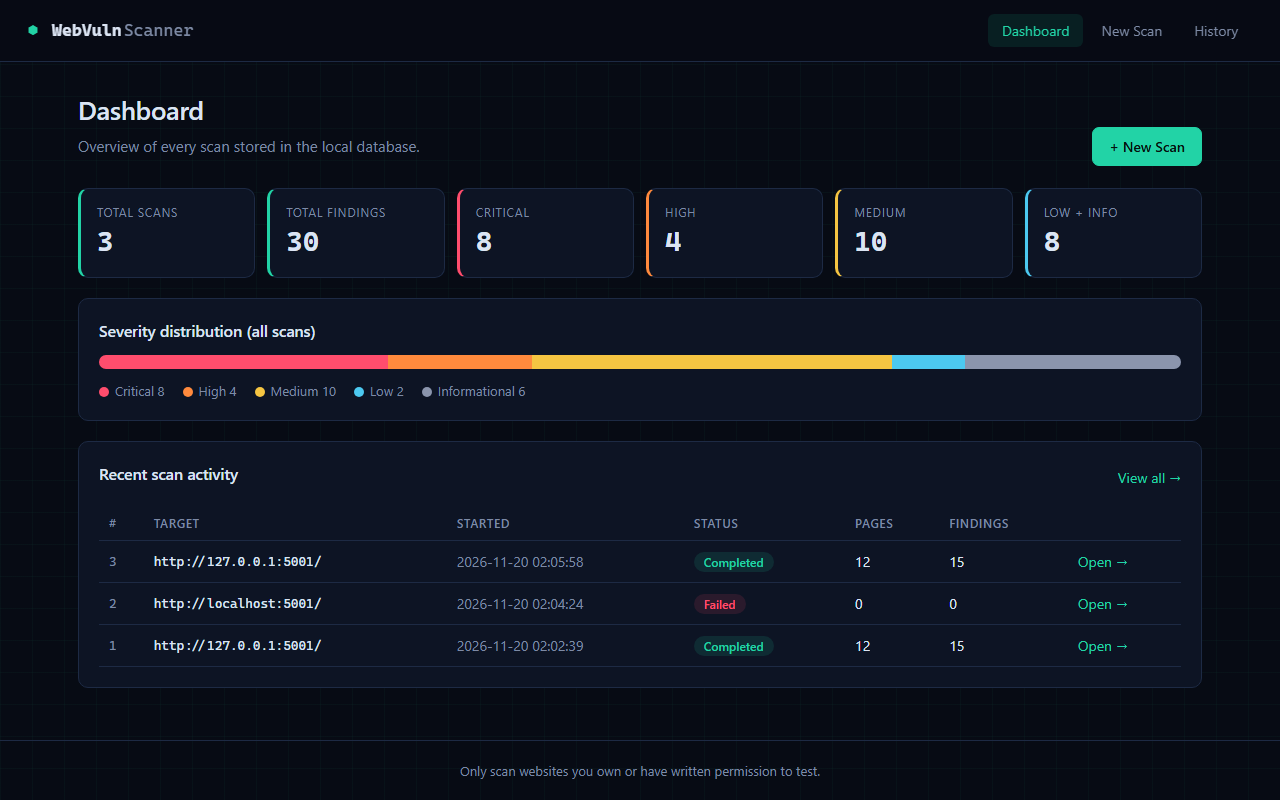
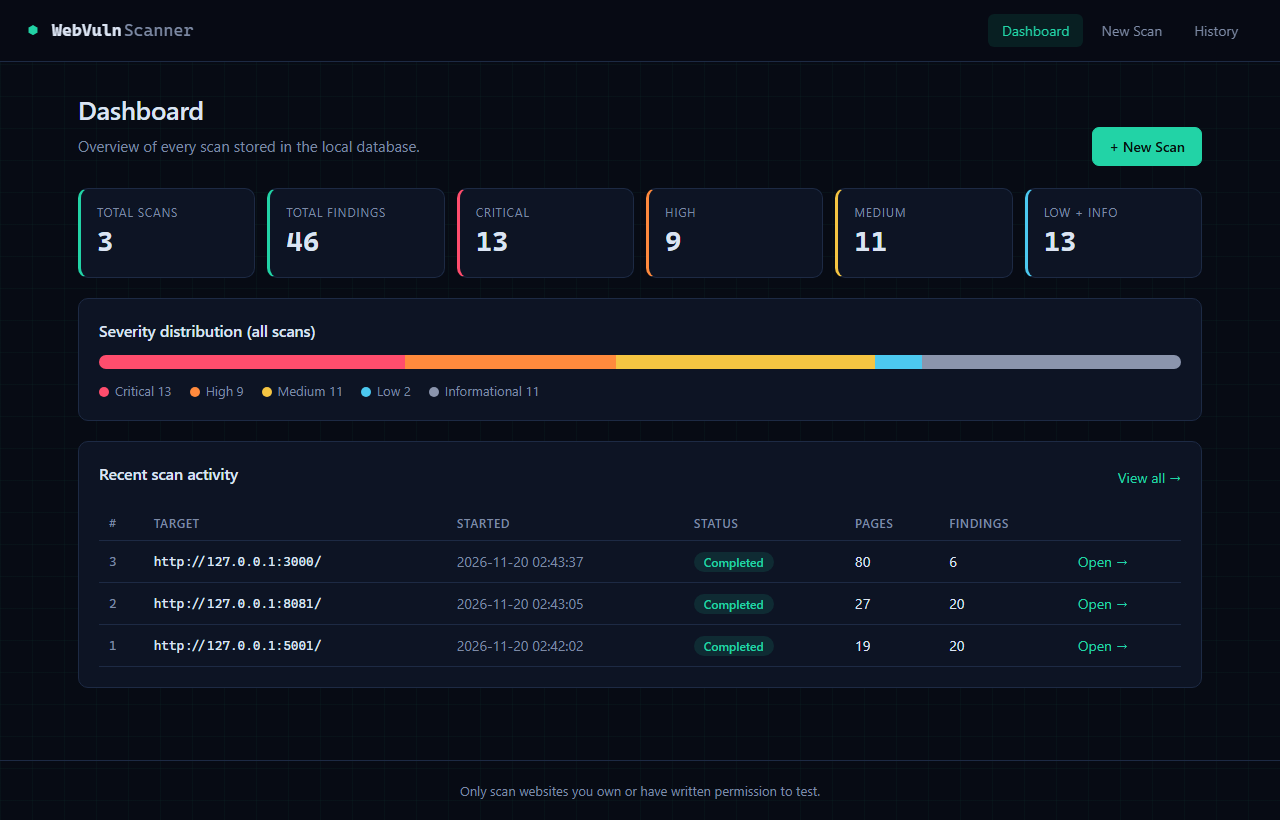
Updated README with DVWA and Juice Shop results and new features

diff --git a/README.md b/README.md
@@ -3,14 +3,20 @@
 A beginner-friendly web application vulnerability scanner written in Python and Flask.
 
 You give it the URL of a website you are allowed to test. It crawls the site, finds the pages, forms and
-URL parameters, and then checks them for common security problems: reflected XSS, SQL injection, open
-redirects, missing security headers and exposed files. Everything is saved in a SQLite database, shown on a
-dark web dashboard, and can be exported as an HTML or PDF report.
+URL parameters (also API addresses hidden in JavaScript files), and then checks them for common security
+problems: reflected and stored XSS, SQL injection (error, boolean and time-based), open redirects, missing
+security headers and exposed files. It can log in first to test pages behind a login. Everything is saved
+in a SQLite database, shown on a dark web dashboard, and can be exported as an HTML or PDF report.
+
+It has been tested against its own vulnerable test lab, **DVWA** and **OWASP Juice Shop**
+(see [Results on DVWA and Juice Shop](#results-on-dvwa-and-juice-shop)).
 
 I built this project to learn how scanners like OWASP ZAP work on the inside. It is meant for learning
 and for testing your own apps, not for replacing professional tools.
 
-![Dashboard](docs/screenshots/dashboard.png)
+![Demo: starting a scan with login, live progress, results and the HTML report](docs/demo.gif)
+
+*Demo: a scan of the local test lab with login and stored XSS turned on (about 30 seconds of real time).*
 
 ---
 
@@ -20,8 +26,12 @@ and for testing your own apps, not for replacing professional tools.
 |---|---|
 | **Target management** | Validates the URL (http/https only), only allows hosts on an allowlist, blocks private/internal IPs that are not allowlisted, always blocks cloud metadata IPs, and limits timeouts and requests |
 | **Web crawler** | Finds pages by following links (same site only), reads forms and input fields, collects URL parameters, skips duplicates, stops at a max depth and max page count |
-| **XSS detection** | Sends a harmless, random marker and checks if it turns into a real HTML tag or attribute. Escaped output is *not* reported |
-| **SQL injection detection** | Error-based (looks for database error messages, then confirms) and boolean-based (compares "always true" and "always false" pages). Never sends destructive SQL |
+| **JavaScript endpoint discovery** | Reads the site's `.js` files as text and picks out API paths like `/rest/products/search?q=` (also inside template strings), so single-page apps such as Juice Shop can be tested |
+| **Login support** | Logs in through the site's login form (keeps hidden CSRF tokens) or uses a pasted session cookie. Starts crawling from the page after login. The password is never saved |
+| **Excluded paths** | URLs containing words like `logout`, `reset` or `delete` are never requested, so the scan can't log itself out or wipe data |
+| **Reflected XSS** | Sends a harmless, random marker and checks if it turns into a real HTML tag or attribute. Escaped output is *not* reported |
+| **Stored XSS** (opt-in) | Submits a unique marker into every form field, then reloads the pages and checks if a marker now shows up as a real tag |
+| **SQL injection detection** | Error-based (database error messages, then confirms), boolean-based ("always true" vs "always false" pages) and time-based blind (`SLEEP`/`pg_sleep`, confirmed twice). Never sends destructive SQL |
 | **Open redirect detection** | Tests redirect-like parameters with `https://example.com/...` and reads the `Location` header without following it |
 | **Security header analyzer** | Checks CSP, X-Frame-Options, HSTS, X-Content-Type-Options, Referrer-Policy (missing **and** weak values) and version leaks in `Server` / `X-Powered-By` |
 | **Directory discovery** | Checks about 30 common paths (`/.env`, `/.git/HEAD`, `/admin/`, `/backup/` ...), records every status code, detects "soft 404" pages and hides secrets in the evidence |
@@ -58,15 +68,17 @@ flowchart TD
     Engine --> Crawler[crawler/crawler.py<br/>pages, forms, parameters]
     Crawler --> UP[url_parser.py]
     Crawler --> FP[form_parser.py]
+    Engine --> Auth[auth.py<br/>optional login / cookie]
     Engine --> Mods{Vulnerability modules}
     Mods --> XSS[xss_scanner.py]
+    Mods --> SXSS[stored_xss_scanner.py]
     Mods --> SQLI[sqli_scanner.py]
     Mods --> RED[redirect_scanner.py]
     Mods --> HDR[header_analyzer.py]
     Mods --> DIR[directory_scanner.py]
-    Crawler & XSS & SQLI & RED & HDR & DIR -->|every HTTP request| RH[request_handler.py<br/>scope check, timeout, limit, delay]
+    Crawler & Auth & XSS & SXSS & SQLI & RED & HDR & DIR -->|every HTTP request| RH[request_handler.py<br/>scope, exclusions, timeout, limit, delay]
     RH -->|HTTP| Target[(Target website)]
-    XSS & SQLI & RED & HDR & DIR -->|Finding objects| FC[findings_collector.py]
+    XSS & SXSS & SQLI & RED & HDR & DIR -->|Finding objects| FC[findings_collector.py]
     FC --> RA[risk_assessment.py<br/>severity formula]
     Engine -->|save results + progress| DB[(SQLite<br/>database/db.py)]
     Routes -->|read results| DB
@@ -98,17 +110,19 @@ WebVuln Scanner/
 │   ├── target_manager.py       # URL validation, allowlist, private IP blocking, scope check
 │   ├── crawler/
 │   │   ├── crawler.py          # breadth-first crawler, builds injection points
-│   │   ├── url_parser.py       # normalize URLs, extract links, read parameters
+│   │   ├── url_parser.py       # normalize URLs, extract links/JS endpoints, read parameters
 │   │   └── form_parser.py      # find forms and their fields
 │   ├── vulnerabilities/
 │   │   ├── xss_scanner.py
-│   │   ├── sqli_scanner.py
+│   │   ├── stored_xss_scanner.py
+│   │   ├── sqli_scanner.py     # error, boolean and time-based
 │   │   ├── redirect_scanner.py
 │   │   ├── header_analyzer.py
 │   │   └── directory_scanner.py
 │   ├── engine/
 │   │   ├── scan_engine.py      # runs all steps, saves progress and results
-│   │   └── request_handler.py  # the only place that sends HTTP requests
+│   │   ├── auth.py             # form login and session cookies
+│   │   └── request_handler.py  # the only place that sends HTTP requests (scope, limits, exclusions)
 │   └── analysis/
 │       ├── findings_collector.py
 │       └── risk_assessment.py
@@ -124,7 +138,7 @@ WebVuln Scanner/
 ├── static/css, static/js       # dark theme + progress/filter scripts
 ├── test_lab/vulnerable_app.py  # deliberately vulnerable site for testing (127.0.0.1 only)
 ├── tests/                      # pytest test suite
-└── docs/screenshots/
+└── docs/                       # demo.gif and screenshots
 ```
 
 **Changes from the first plan:** I added `test_lab/` (a local vulnerable site, so testing never needs the
@@ -145,6 +159,11 @@ BeautifulSoup parses the response:
 
 A second payload, `marker" markera="1`, checks if a quote can break out of an HTML attribute.
 
+**Stored XSS (opt-in).** Each form field gets its own marker, for example `wvsab12cd"'><wvsab12cdx>`.
+After all forms are sent, the crawled pages are loaded again *without* any test input. If a marker now
+appears as a real tag, the site saved it and shows it to every visitor. This module is off by default,
+because it really saves data (like a guestbook entry) on the site.
+
 **SQL injection.**
 - *Error-based:* add `'` to the value. If a database error appears (MySQL, PostgreSQL, SQLite, MSSQL and
   Oracle patterns) that wasn't on the normal page, confirm it: `''` (an escaped quote) should make the error
@@ -152,6 +171,10 @@ A second payload, `marker" markera="1`, checks if a quote can break out of an HT
 - *Boolean-based:* compare the normal page with `1 AND 1=1` (always true) and `1 AND 1=2` (always false).
   True looks normal and false looks different: **Medium**. The page is loaded twice first, so pages that
   change on their own are skipped.
+- *Time-based blind:* used when the page looks the same whatever happens (blind SQLi). The scanner sends
+  `1 AND SLEEP(3)` (MySQL) or `1 AND 1=(SELECT 1 FROM PG_SLEEP(3))` (PostgreSQL). It reports only if the
+  page is about 3 s slower, the same payload with `SLEEP(0)` is fast again, and a second slow try is slow
+  too. That last check rules out a slow network.
 - Only read-only test inputs are used. No `DROP`, `DELETE`, `UPDATE`, `INSERT` or stacked queries.
 
 **Open redirect.** Only parameters with redirect-style names (`url`, `next`, `redirect`, `goto` ...) or
@@ -227,16 +250,44 @@ python app.py
 If an allowlisted name points to a private IP (like `10.0.0.5`), you must allowlist that IP too. Cloud
 metadata addresses (`169.254.169.254`) are always blocked.
 
-**Testing with OWASP Juice Shop or DVWA.** If you have Docker:
+**Scanning a site behind a login.** Open the *Login (optional)* box on the New Scan page and enter the
+login page URL plus a **test** username and password, or paste a session cookie copied from your browser.
+For the test lab, use `http://127.0.0.1:5001/account/login` with `tester` / `lab-password`.
+
+---
+
+## Results on DVWA and Juice Shop
+
+Both run locally in Docker. They only listen on `127.0.0.1`, so nobody else on your network can reach them.
 
 ```powershell
-docker run --rm -p 127.0.0.1:3000:3000 bkimminich/juice-shop
-docker run --rm -p 127.0.0.1:8080:80 vulnerables/web-dvwa
+docker run -d --name wvs-juice -p 127.0.0.1:3000:3000 bkimminich/juice-shop
+docker run -d --name wvs-dvwa -p 127.0.0.1:8081:80 vulnerables/web-dvwa
 ```
 
-Then scan `http://127.0.0.1:3000/` or `http://127.0.0.1:8080/`. Note: Juice Shop is a JavaScript
-single-page app, so this crawler (which doesn't run JavaScript) only sees a few pages. DVWA needs a
-login, which this scanner doesn't support yet (see Limitations).
+**DVWA** (http://127.0.0.1:8081). First open `/setup.php` and click *Create / Reset Database*. Then scan
+`http://127.0.0.1:8081/` with:
+- Login page `http://127.0.0.1:8081/login.php`, user `admin`, password `password` (DVWA's default test account)
+- add `security` to the excluded paths, so the scan doesn't change DVWA's security level halfway through
+- Stored XSS ticked
+
+Result (security level *low*, 27 pages, 368 requests, about 30 seconds), all real DVWA vulnerabilities:
+
+| Severity | Finding | Where |
+|---|---|---|
+| Critical | SQL injection (error-based) | `/vulnerabilities/sqli/` `id`, `/vulnerabilities/brute/` `username` |
+| Critical | SQL injection (time-based blind) | `/vulnerabilities/sqli_blind/` `id` |
+| Critical | Stored XSS | `/vulnerabilities/xss_s/` `mtxMessage` |
+| High | Reflected XSS | `/vulnerabilities/xss_r/` `name`, `/sqli/` `id`, `/brute/` `username`, `/xss_s/`, `/csp/` `include` |
+| Medium | Exposed `phpinfo.php`, missing CSP / X-Frame-Options, plain HTTP | |
+
+Not found (expected): DOM XSS (`/xss_d/`), command injection, file inclusion, CSRF and file upload. This
+scanner has no checks for those.
+
+**Juice Shop** (http://127.0.0.1:3000). Juice Shop is an Angular single-page app, so the normal links only
+lead to one page. The JavaScript endpoint discovery found 80 API paths in `main.js`, including
+`/rest/products/search?q=`. The scanner reported the well-known **SQL injection in the product search**
+(`q=1'` returns `SQLITE_ERROR`) as Critical / High confidence, plus missing CSP and plain HTTP.
 
 ---
 
@@ -262,8 +313,12 @@ The tests start the vulnerable lab on a random port automatically, so no interne
 is needed. They check:
 
 - URL validation, allowlist, private IP and metadata IP blocking, scope check, request limit
-- crawling: links, forms, parameters, no duplicates, max depth, max pages, no external links
-- XSS, SQLi and open redirect: **detected** on the vulnerable pages and **not reported** on the safe twin pages
+- crawling: links, forms, parameters, no duplicates, max depth, max pages, no external links,
+  API paths found in JavaScript (normal strings and template strings)
+- login with a CSRF-protected form, wrong passwords, cookies, excluded paths (the scan never logs itself
+  out), and that the password is never stored in the database, results page or report
+- reflected XSS, stored XSS, SQLi (error, boolean, time-based, and in a JSON API) and open redirect:
+  **detected** on the vulnerable pages and **not reported** on the safe twin pages
 - security headers with fake responses (missing, weak, and secure cases)
 - directory discovery, status codes and secret hiding
 - risk scores and severity levels
@@ -275,10 +330,15 @@ is needed. They check:
 
 ## Limitations
 
-- **No JavaScript rendering.** Single-page apps (React, Angular, Juice Shop) are mostly invisible to the crawler.
-- **No login support.** Pages behind a login form are not scanned.
-- **Reflected XSS only.** Stored and DOM-based XSS are not detected.
-- **No time-based blind SQL injection**, and boolean-based results can still be false positives on unusual pages.
+- **JavaScript is read, not run.** The crawler finds API paths written in `.js` files, but it doesn't run a
+  real browser. URLs that are built step by step at runtime, and POST/JSON APIs, are not found. That's why
+  only 1 of Juice Shop's many bugs was found.
+- **DOM-based XSS is not detected** (that needs a real browser too).
+- **Login works with normal login forms and cookies.** Multi-step logins, CAPTCHAs, 2FA and "Sign in with
+  Google" style logins are not supported. Use the cookie field for those.
+- **Time-based SQLi covers MySQL/MariaDB and PostgreSQL.** SQL Server would need a stacked query, which is
+  never sent on purpose. Boolean-based results can still be false positives on unusual pages.
+- **Stored XSS** is only checked on pages the crawler visited, and it really writes data, so it's opt-in.
 - **Small path list** for directory discovery, on purpose. This is not a brute-forcer.
 - **Forms are really submitted** during testing (for example the login and contact forms). On a real
   app this can create log entries, emails or database rows. Only scan test environments.
@@ -288,8 +348,8 @@ is needed. They check:
 
 ## Future improvements
 
-- Login/session support (cookie or form login before crawling)
-- Stored XSS and time-based SQL injection checks
+- Optional headless-browser crawling (for example Playwright) for JavaScript apps and DOM XSS
+- Testing JSON/POST APIs found in JavaScript
 - A cancel button for running scans
 - Export findings as JSON/CSV
 - Optional headless browser crawling for JavaScript-heavy sites
